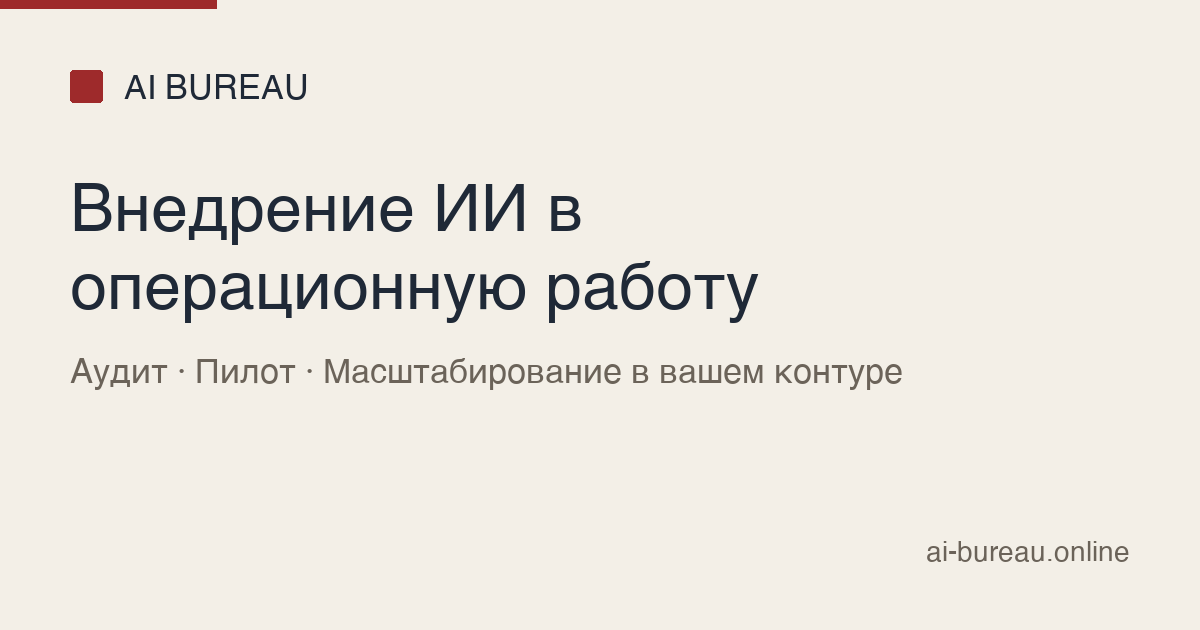
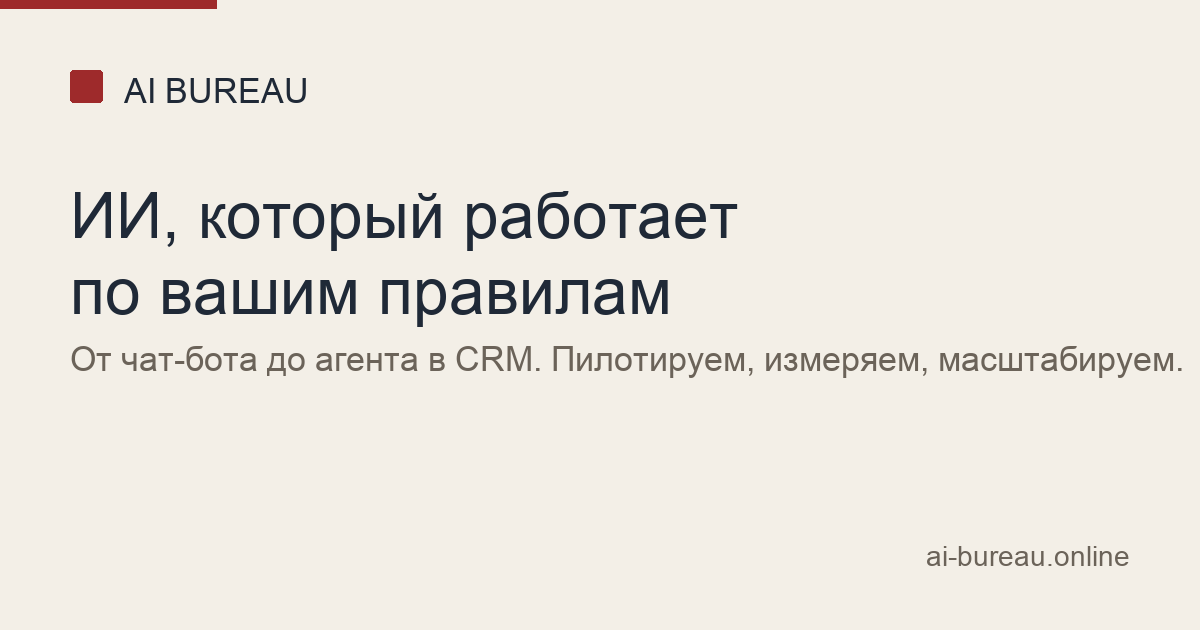
feat(ai-bureau): update homepage headline, lede and og-image

diff --git a/index.html b/index.html
@@ -1,8 +1,8 @@
 <!DOCTYPE html><html lang="ru"><head>
   <meta charset="utf-8">
   <meta name="viewport" content="width=device-width, initial-scale=1">
-  <title>AI Bureau — внедрение ИИ в операционную работу</title>
-  <meta name="description" content="Аудит, пилот и масштабирование ИИ под ваши процессы. Работаем в вашем контуре: CRM, 1С, документы, боты, локальные модели. Без обещаний — с измеримыми метриками.">
+  <title>AI Bureau — ИИ, который работает по вашим правилам</title>
+  <meta name="description" content="От чат-бота до агента в CRM. Пилотируем на одном процессе, измеряем эффект, потом масштабируем на команду.">
   <link rel="preconnect" href="https://fonts.googleapis.com">
   <link rel="preconnect" href="https://fonts.gstatic.com" crossorigin="">
   <link href="https://fonts.googleapis.com/css2?family=Inter:wght@400;500;600;700&amp;family=JetBrains+Mono:wght@500&amp;display=swap" rel="stylesheet">
@@ -168,17 +168,17 @@
 <meta property="og:type" content="website">
 <meta property="og:site_name" content="AI Bureau">
 <meta property="og:locale" content="ru_RU">
-<meta property="og:title" content="AI Bureau — внедрение ИИ в операционную работу">
-<meta property="og:description" content="Аудит, пилот и масштабирование ИИ под ваши процессы. Работаем в вашем контуре: CRM, 1С, документы, боты, локальные модели. Без обещаний — с измеримыми метриками.">
+<meta property="og:title" content="AI Bureau — ИИ, который работает по вашим правилам">
+<meta property="og:description" content="От чат-бота до агента в CRM. Пилотируем на одном процессе, измеряем эффект, потом масштабируем на команду.">
 <meta property="og:url" content="https://ai-bureau.online/">
-<meta property="og:image" content="https://ai-bureau.online/og-image.png?v=2">
+<meta property="og:image" content="https://ai-bureau.online/og-image.png?v=3">
 <meta property="og:image:width" content="1200">
 <meta property="og:image:height" content="630">
 <meta property="og:image:type" content="image/png">
-<meta property="og:image:alt" content="AI Bureau — внедрение ИИ в операционную работу">
+<meta property="og:image:alt" content="AI Bureau — ИИ, который работает по вашим правилам">
 <meta name="twitter:card" content="summary_large_image">
-<meta name="twitter:title" content="AI Bureau — внедрение ИИ в операционную работу">
-<meta name="twitter:description" content="Аудит, пилот и масштабирование ИИ под ваши процессы. Работаем в вашем контуре: CRM, 1С, документы, боты, локальные модели.">
+<meta name="twitter:title" content="AI Bureau — ИИ, который работает по вашим правилам">
+<meta name="twitter:description" content="От чат-бота до агента в CRM. Пилотируем на одном процессе, измеряем эффект, потом масштабируем на команду.">
 <meta name="twitter:image" content="https://ai-bureau.online/og-image.png?v=2">
 <meta name="theme-color" content="#F3EFE7">
 <link rel="icon" href="/favicon.ico?v=2" sizes="16x16 24x24 32x32">
@@ -240,8 +240,8 @@ header.topbar nav{display:flex!important;order:3;width:100%;flex-wrap:wrap;gap:8
       <div class="hero-grid">
         <div>
           <span class="mono eyebrow">[01 / ВНЕДРЕНИЕ ИИ]</span>
-          <h1 id="hero-title">Внедряем ИИ в операционную работу</h1>
-          <p class="lede">Аудит, пилот и масштабирование. Начинаем с одного процесса и показываем эффект до того, как расширять решение на команду.</p>
+          <h1 id="hero-title">ИИ, который работает по вашим правилам</h1>
+          <p class="lede">От чат-бота до агента в CRM. Пилотируем на одном процессе, измеряем эффект, потом масштабируем на команду.</p>
           <div class="row">
             <a class="btn" href="#contact">Обсудить проект</a>
             <a class="btn btn--ghost" href="#services">Смотреть услуги</a>
